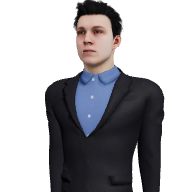
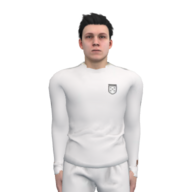
Todos los personajes con equipación de futbolista
- Leo, Nico y Remy reciben la camiseta, pantalón, medias y botas de Dani (ajustadas a su esqueleto) y piernas donde no tenían
- Ty, Big Vegas y Granny llevan su ropa pintada como equipación por defecto; Ty sin bufanda
- Retratos regenerados con la nueva ropa

Claude-Session: https://claude.ai/code/session_017Zx2H8d6dd2Bde9S1DSPYC

diff --git a/arenamix/chars.js b/arenamix/chars.js
@@ -63,12 +63,98 @@
         }, null, function () { if (onStep) onStep(); res(false); });
       });
     }))).then(function () {
+      try { footballers(); } catch (e) { console.warn('kit transplant', e); }
       var ok = ready();
       if (ok) waiters.splice(0).forEach(function (f) { try { f(); } catch (e) {} });
       return ok;
     });
     return loading;
   }
+  /* ---------- everyone a footballer ----------
+     Dani is the only model that comes in a football kit. The other realistic models (same Mixamo rig) get
+     Dani's shirt, shorts, socks and boots in place of their street clothes: every kit vertex is carried
+     from Dani's bones to the same bones of the other skeleton, scaled to the model's height. */
+  var KIT_SRC = 'dani', KIT_MESH = /(Shorts|Shirt|Socks|Shoes|Body)$/;
+  // models with no legs under their trousers borrow Dani's (thigh to ankle), tinted to their skin
+  var LEGS = { leo: '#F2E2D8', nico: '#8A6450', remy: '#D9B497' };
+  // per model fit: offsets from each bone scaled a bit (borrowed legs sit just inside the model's own skin)
+  var FIT = { remy: { Shorts: 1.1, Shirt: 1.04, Body: 0.94 } };
+  var WEAR = { leo: /Ch23_(Suit|Belt|Shirt|Pants|Shoes)$/, nico: /Ch28_(Sneakers|Pants|Hoody)$/, remy: /^(Shoes|Tops|Bottoms)$/ };
+  var DROP = { ty: /Scarf/ };
+  function footballers() {
+    var src = tpl[KIT_SRC];
+    Object.keys(DROP).forEach(function (id) {
+      var t = tpl[id]; if (!t) return;
+      var rm = []; t.root.traverse(function (m) { if (m.isMesh && DROP[id].test(m.name)) rm.push(m); });
+      rm.forEach(function (m) { m.parent.remove(m); });
+    });
+    if (!src) return;
+    src.root.updateMatrixWorld(true);
+    var srcH = src.box.max.y - src.box.min.y;
+    Object.keys(WEAR).forEach(function (id) {
+      var t = tpl[id]; if (!t) return;
+      var root = t.root; root.updateMatrixWorld(true);
+      var tb = {}; root.traverse(function (b) { if (b.isBone && !tb[b.name]) tb[b.name] = b; });
+      var old = []; root.traverse(function (m) { if (m.isSkinnedMesh && WEAR[id].test(m.name)) old.push(m); });
+      if (!old.length) return;
+      var ref = old[0], k = (t.box.max.y - t.box.min.y) / srcH, inv = new T.Matrix4().copy(ref.matrixWorld).invert();
+      var made = [];
+      src.root.traverse(function (m) {
+        if (!m.isSkinnedMesh || !KIT_MESH.test(m.name)) return;
+        var sb = m.skeleton.bones, bones = sb.map(function (b) { return tb[b.name]; });
+        if (bones.some(function (b) { return !b; })) return;
+        var isBody = /Body$/.test(m.name);
+        if (isBody && !LEGS[id]) return;
+        var sp = sb.map(function (b) { return new T.Vector3().setFromMatrixPosition(b.matrixWorld); });
+        var tp = bones.map(function (b) { return new T.Vector3().setFromMatrixPosition(b.matrixWorld); });
+        var geo = m.geometry.clone();
+        if (isBody) {
+          // keep only the triangles the leg bones move
+          var bn = sb.map(function (b) { return b.name; }), gi = geo.index, sI = geo.attributes.skinIndex, sW = geo.attributes.skinWeight, keep = [];
+          var legV = function (x) { var best = 0, bw = -1; for (var q = 0; q < 4; q++) { var ww = sW.array[x * 4 + q]; if (ww > bw) { bw = ww; best = sI.array[x * 4 + q]; } } return /(UpLeg|Leg)$/.test(bn[best] || ''); };
+          for (var f = 0; f < gi.count; f += 3) { var a = gi.getX(f), b2 = gi.getX(f + 1), c2 = gi.getX(f + 2); if (legV(a) && legV(b2) && legV(c2)) keep.push(a, b2, c2); }
+          geo.setIndex(keep);
+        }
+        var pos = geo.attributes.position, si = geo.attributes.skinIndex, sw = geo.attributes.skinWeight;
+        var part = (m.name.match(/(Shorts|Shirt|Socks|Shoes|Body)$/) || [])[1], kf = k * ((FIT[id] || {})[part] || 1);
+        var v = new T.Vector3(), acc = new T.Vector3(), d = new T.Vector3();
+        for (var i = 0; i < pos.count; i++) {
+          v.fromBufferAttribute(m.geometry.attributes.position, i);
+          m.boneTransform(i, v); v.applyMatrix4(m.matrixWorld);
+          acc.set(0, 0, 0);
+          var tw = 0;
+          for (var j = 0; j < 4; j++) {
+            var w = sw.array[i * 4 + j]; if (!(w > 0)) continue;
+            var bi = si.array[i * 4 + j];
+            d.copy(v).sub(sp[bi]).multiplyScalar(kf).add(tp[bi]);
+            acc.addScaledVector(d, w); tw += w;
+          }
+          if (tw > 0) acc.multiplyScalar(1 / tw); else acc.copy(v);
+          acc.applyMatrix4(inv);
+          pos.setXYZ(i, acc.x, acc.y, acc.z);
+        }
+        pos.needsUpdate = true; geo.computeBoundingSphere();
+        var mat = m.material;
+        if (isBody) { mat = m.material.clone(); mat.color = new T.Color(LEGS[id]); }
+        var nm = new T.SkinnedMesh(geo, mat);
+        nm.name = isBody ? 'Legs_Body' : m.name; nm.castShadow = true; nm.frustumCulled = false;
+        nm.position.copy(ref.position); nm.quaternion.copy(ref.quaternion); nm.scale.copy(ref.scale);
+        made.push({ mesh: nm, bones: bones });
+      });
+      if (!made.length) return;
+      var parent = ref.parent;
+      old.forEach(function (m) { m.parent.remove(m); });
+      made.forEach(function (o) {
+        parent.add(o.mesh); o.mesh.updateMatrixWorld(true);
+        o.mesh.bind(new T.Skeleton(o.bones), o.mesh.matrixWorld.clone());
+      });
+      root.updateMatrixWorld(true);
+      prepKit(root, t.box);
+    });
+  }
+  // the cartoon models are one piece: their clothes are painted as a kit when no outfit is given
+  var PAINT = { ty: 1, vegas: 1, granny: 1 };
+  var HOME_KIT = { primary: '#F4F6FA', secondary: '#1E3A8A', pattern: 'solid', shorts: '#1E2A55', socks: '#F4F6FA', shoe: '#1A1D24' };
   function onReady(f) { if (ready()) f(); else waiters.push(f); }
 
   /* ---------- kits: the outfit chosen in Taquilla painted over each character's own clothes ----------
@@ -123,7 +209,7 @@
       var lum = [1, 1, 1, 1, 1].map(function (d, z) { return cnt[z] ? Math.max(0.02, sum[z] / cnt[z]) : 0.2; });
       m.userData.kitLum = [lum[1], lum[2], lum[3], lum[4]];
       m.userData.kitable = true;
-      m.userData.keepSkin = /elvis/i.test(m.name) ? 1 : 0;
+      m.userData.keepSkin = 0;
     });
   }
   /* head size and where the eyes are, from the vertices the head bone moves (T-pose, model units):
@@ -302,6 +388,7 @@
     // dress the character: an explicit kit, your Taquilla outfit, or the team colours the game passes
     var kit = o.kit || (o.you && !o.noOutfit ? outfit(o.sport) : null);
     if (!kit && o.shirt != null) kit = { primary: o.shirt, secondary: o.trimCss, pattern: 'solid', shorts: o.shorts, socks: o.socks, shoe: o.boot };
+    if (!kit && PAINT[id]) kit = HOME_KIT;
     if (kit) model.traverse(function (m) { if (m.isSkinnedMesh && m.userData.kitable) m.material = kitMaterial(m.material, kit, new T.Vector4().fromArray(m.userData.kitLum), m.userData.keepSkin); });
     var gear = [];
     // the accessories only go on your own character, not on teammates who share the kit

diff --git a/arenamix/sw.js b/arenamix/sw.js
@@ -1,5 +1,5 @@
 /* Network-first so every update you publish reaches the phone; cache is the offline fallback. */
-const CACHE = 'arenamix-v176';
+const CACHE = 'arenamix-v177';
 const CORE = ['./', 'index.html', 'app.js', 'manifest.webmanifest', 'vendor/preact.min.js', 'vendor/three.min.js', 'vendor/GLTFLoader.js', 'vendor/SkeletonUtils.js', 'chars.js', 'gear.js', 'posters.js', 'hero.js', 'progress.js', 'results.js', 'sfx.js', 'online.js', 'social.js', 'vendor/peerjs.min.js', 'grass.js', 'sky.js', 'ball.js', 'vendor/RGBELoader.js', 'stadium.js', 'music.js', 'ui-fx.js', 'juice.js', 'i18n.js', 'i18n-en.js', 'assets/stadium/stadium.glb', 'assets/stadium/seats.json', 'assets/stadium/goal.glb', 'assets/sky/stadium_bg.jpg', 'assets/sky/stadium_env.hdr', 'assets/grass/color.jpg', 'assets/grass/normal.jpg', 'assets/grass/rough.jpg', 'assets/chars/ty.glb', 'assets/chars/vegas.glb', 'assets/chars/granny.glb', 'assets/chars/anims.json', 'icons/icon-192.png', 'icons/loading-bg.jpg', 'assets/lobby_bg.jpg', 'assets/grain.png', 'vendor/fonts/luckiestguy-latin.woff2', 'vendor/fonts/lilitaone-latin.woff2', 'vendor/fonts/rajdhani-500.woff2', 'vendor/fonts/rajdhani-600.woff2', 'vendor/fonts/rajdhani-700.woff2'];
 
 self.addEventListener('install', (e) => {

diff --git a/arenamix/index.html b/arenamix/index.html
@@ -64,7 +64,7 @@
 <script src="vendor/GLTFLoader.js"></script>
 <script src="vendor/SkeletonUtils.js"></script>
 <script src="vendor/RGBELoader.js"></script>
-<script src="chars.js?v=50"></script>
+<script src="chars.js?v=51"></script>
 <script src="gear.js?v=10"></script>
 <script src="posters.js?v=4"></script>
 <script src="hero.js?v=2"></script>
